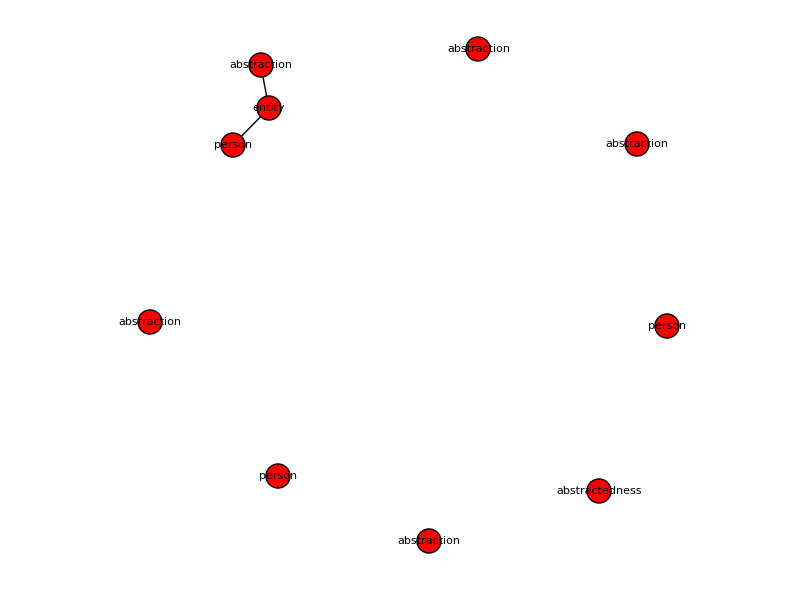
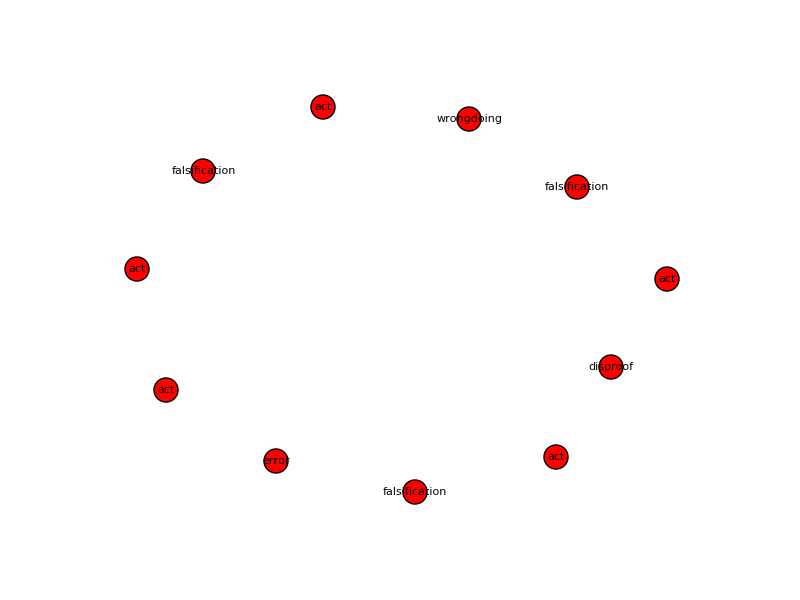
minifix (aggiustamenti vari) + inserimento del parametro del numero massimo di synset che un termine può avere

diff --git a/graph_relations.py b/graph_relations.py
@@ -1,14 +1,13 @@
 import networkx as nx
-from flatlist import flat
 import strings_to_synsets
 import matplotlib.pyplot as plt
 import numpy as np
 
-def process(strings, param_similarity):
+def process(strings, param_similarity, num_synset):
     flatten = lambda l: sum(map(flatten, l), []) if isinstance(l, list) else [l]
     print("\n\n*************INIZIO METODO GRAPH_RELATIONS")
     synset_to_strings = []
-    synsetslist = strings_to_synsets.get_all_synsets(strings)
+    synsetslist = strings_to_synsets.get_all_synsets(strings, num_synset)
     print("I synset sono: "+str(len(synsetslist)))
     print(synsetslist)
     G = nx.Graph() #creo il grafo
@@ -33,7 +32,12 @@ def process(strings, param_similarity):
             if degree_centrality_dict[synset_centr] > percentile: #se sono abbastanza centrali
                 print(str(synset_centr)+str(degree_centrality_dict[synset_centr]))
                 synset_to_strings.append(synset_centr.lemmas()[0].name())
+        if not synset_to_strings:
+            print("Termini con centralità inferiore al percentile:")
+            synset_to_strings.append([el.lemmas()[0].name() for el in degree_centrality_dict.keys()])
+
     else:
+        print("Termini con centralità = 0.0:")
         synset_to_strings.append([el.lemmas()[0].name() for el in degree_centrality_dict.keys()])
 
     final = list(set(flatten(synset_to_strings)))

diff --git a/lcs.py b/lcs.py
@@ -1,11 +1,10 @@
 from nltk.corpus import wordnet as wn
 import strings_to_synsets
 from nltk import tag
-from flatlist import flat
 
 final = []
 
-def process(list_of_string, similarity):
+def process(list_of_string, similarity, num_synset):
 
     print("\n\n*************INIZIO METODO LCS")
     lcs_list = []
@@ -16,7 +15,7 @@ def process(list_of_string, similarity):
     #nouns_synset_list = []
 
     if len(set_string) > 1:
-        synsetslist = strings_to_synsets.get_noun_synsets(set_string)
+        synsetslist = strings_to_synsets.get_noun_synsets(set_string, num_synset)
 
         # [terms_synsets_list.append(synset.lemmas()[0].name()) for synset in synsetslist]
         # returned_list = tag_terms(terms_synsets_list)
@@ -89,7 +88,7 @@ def process(list_of_string, similarity):
 
         if len(more_similar_couples) > 2:
             print('\n' + str(final))
-            process(new_list_of_string, similarity)
+            process(new_list_of_string, similarity, num_synset)
 
 
     #se la lista iniziale e' composta da un solo termine, stampa quello

diff --git a/strings_to_synsets.py b/strings_to_synsets.py
@@ -1,19 +1,19 @@
 from nltk.corpus import wordnet as wn
 
-def get_noun_synsets(strings):
+def get_noun_synsets(strings, param):
     synsetslist = []
     for term in strings:
-        if len(wn.synsets(term)) <= 10:  # scarto i termini che hanno piu' di 10 significati
+        if len(wn.synsets(term)) <= param:  # scarto i termini che hanno piu' di 10 significati
             for synset in wn.synsets(term):
                 if synset.pos() == 'n':
                     synsetslist.append(
                         synset)  # inserisco in un'unica lista tutti i synset dei termini per poi confrontarli
     return synsetslist
 
-def get_all_synsets(strings):
+def get_all_synsets(strings, param):
     synsetslist = []
     for term in strings:
-        if len(wn.synsets(term)) <= 10:  # scarto i termini che hanno piu' di 10 significati
+        if len(wn.synsets(term)) <= param:  # scarto i termini che hanno piu' di 10 significati
             for synset in wn.synsets(term):
                 if synset.pos() == 'n':
                     synsetslist.append(

diff --git a/relations.py b/relations.py
@@ -1,7 +1,6 @@
 from __future__ import division
 import collections
 import random
-from flatlist import flat
 import lcs
 import strings_to_synsets
 import numpy as np
@@ -9,7 +8,7 @@ from nltk.corpus import wordnet as wn
 
 final_list = []
 
-def process(list_of_string, similarity):
+def process(list_of_string, similarity, num_synset):
     print("\n\n*************INIZIO METODO RELATIONS")
     similarity = None
     flatten = lambda l: sum(map(flatten, l), []) if isinstance(l, list) else [l]
@@ -17,7 +16,7 @@ def process(list_of_string, similarity):
     final_string = []
     # uso la funzione di lcs string_to_synsets(considerando anche aggettivi avverbi e verbi)
     # per ottenere i synsets dalla lista dei termini in input
-    synsetslist = strings_to_synsets.get_all_synsets(set_string)
+    synsetslist = strings_to_synsets.get_all_synsets(set_string, num_synset)
     print(synsetslist)
 
     for i in range(0, (len(synsetslist) - 1)):

diff --git a/composition.py b/composition.py
@@ -5,16 +5,16 @@ import supervised
 
 
 class Composition:
-    def __init__(self, stringlist, sequence, similarity):
+    def __init__(self, stringlist, sequence, similarity, numsynset):
         result = stringlist
 
         for item in sequence:
             if item == "lcs":
-                result = lcs.process(result, similarity)
+                result = lcs.process(result, similarity, numsynset)
             elif item == "relations":
-                result = relations.process(result, similarity)
+                result = relations.process(result, similarity, numsynset)
             elif item == "graph_relations":
-                result = graph_relations.process(result, similarity)
+                result = graph_relations.process(result, similarity, numsynset)
             else:
                 print("Uno o più elementi inesistenti nella lista 'sequence'.")
         print("Risultato finale: "+str(result))

diff --git a/test_methods.py b/test_methods.py
@@ -21,8 +21,8 @@ summary2 = ['relations', 'lcs', 'graph_relations']
 description1 = ['graph_relations', 'lcs', 'relations']
 description2 = ['lcs', 'graph_relations', 'relations']
 
-#param Composition > stringlist, sequence, similarity
-composition = Composition(test_lists.abstract, summary1, 0.2)
+#param Composition > stringlist, sequenza, similarita' minima per coppie di termini, numero di synset massimi per un termine
+composition = Composition(test_lists.sentiment_list9, summary2, 0.3, 20)
 
 
 
